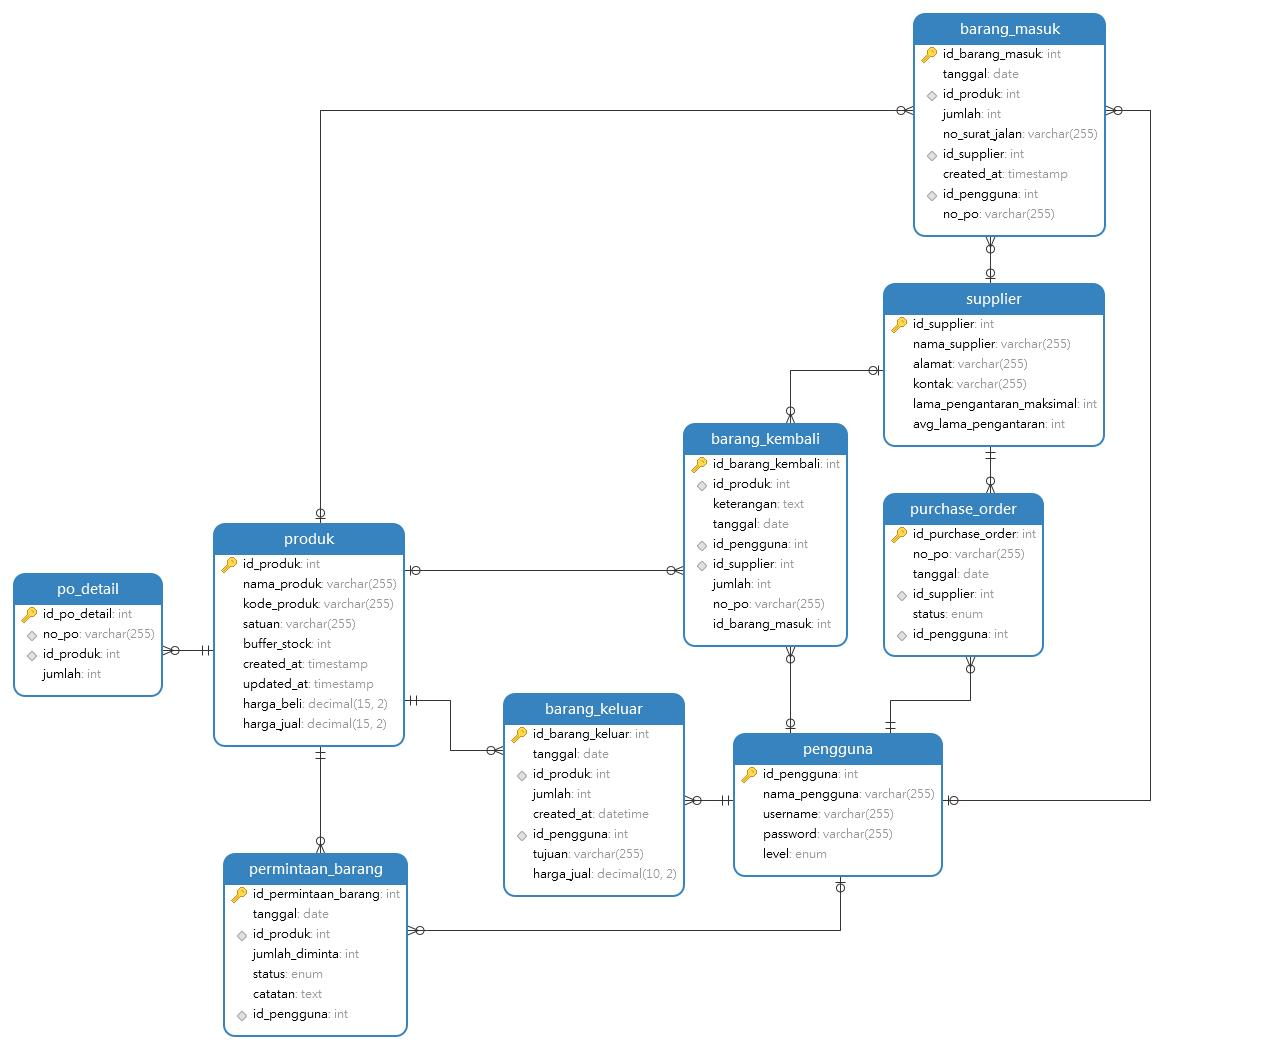
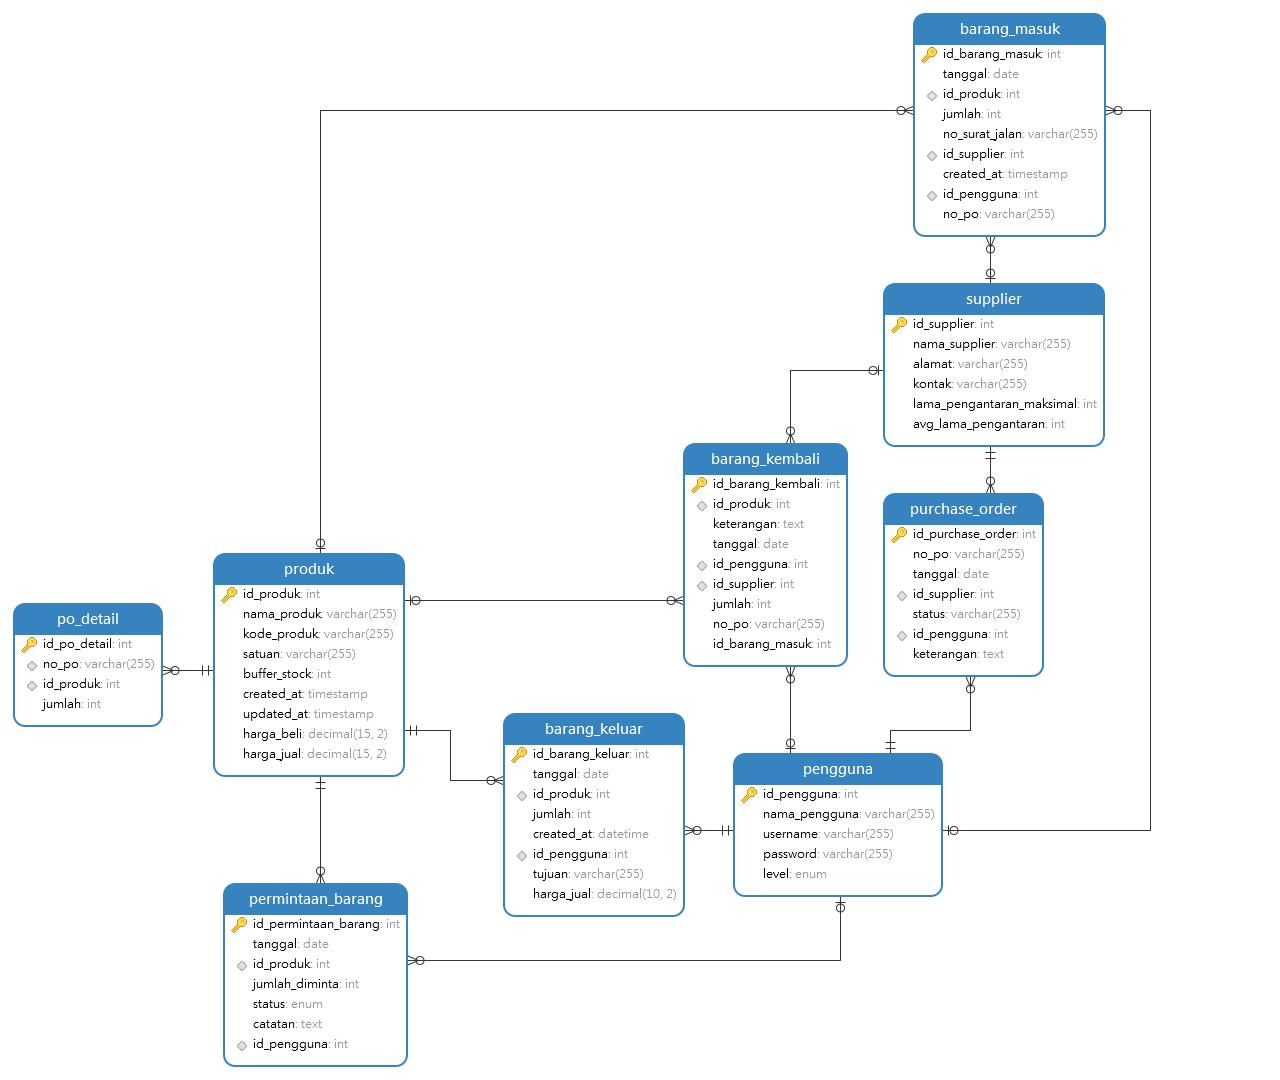
revisi 5

diff --git a/pages/penerimaan-barang-detail/tabel-penerimaan-barang.php b/pages/penerimaan-barang-detail/tabel-penerimaan-barang.php
@@ -5,8 +5,10 @@ $resultpo = $link->query($sqlpo);
 $rowpo = $resultpo->fetch_assoc();
 session_start();
 ?>
-<form action="pages/penerimaan-barang-detail/proses-penerimaan-barang.php" method="post" enctype="multipart/form-data">
+<form id="penerimaan-form" action="pages/penerimaan-barang-detail/proses-penerimaan-barang.php" method="post"
+    enctype="multipart/form-data">
     <input type="hidden" name="id_pengguna" value="<?= $_SESSION['id_pengguna'] ?>">
+    <input type="hidden" name="create_backorder" id="create_backorder" value="0">
     <div class="row">
         <p>Kode PO : <b><?= $rowpo['no_po'] ?></b></p>
         <input name="no_po" type="hidden" value="<?= $rowpo['no_po'] ?>">
@@ -15,6 +17,7 @@ session_start();
         <p>Tanggal Pesan : <b><?= $rowpo['tanggal'] ?></b></p>
         <p>Tanggal Penerimaan : <input class="" type="date" name="tanggal_penerimaan" required></p>
         <p>No Surat Jalan : <input type="text" name="no_surat_jalan" required></p>
+        <p>Keterangan : <input class="" type="text" name="keterangan" value="<?= $rowpo['keterangan'] ?>"></p>
     </div>
 
     <table id="table-data" class="table table-bordered table-striped">
@@ -77,15 +80,8 @@ session_start();
                 }
             }
             if (invalid) {
-                $('#btn-simpan').prop('disabled', true);
-                if (!hasInvalid) {
-                    if (window.alertify && typeof alertify.error === 'function') {
-                        alertify.error('Jumlah diterima tidak boleh kurang dari jumlah dipesan');
-                    } else {
-                        alert('Jumlah diterima tidak boleh kurang dari jumlah dipesan');
-                    }
-                    hasInvalid = true;
-                }
+                $('#btn-simpan').prop('disabled', false); // allow submit, but will confirm on submit
+                hasInvalid = true;
             } else {
                 $('#btn-simpan').prop('disabled', false);
                 hasInvalid = false;
@@ -96,6 +92,49 @@ session_start();
 
         $(document).on('keyup change', '.jumlah_diterima', function () {
             validateRows();
+        });
+
+        // Intercept form submit to handle partial receipts
+        $('#penerimaan-form').on('submit', function (e) {
+            // check if any received < ordered
+            const jumlahEls = $('.jumlah');
+            const diterimaEls = $('.jumlah_diterima');
+            let hasShortfall = false;
+            for (let i = 0; i < jumlahEls.length; i++) {
+                const jumlah = parseFloat($(jumlahEls[i]).val()) || 0;
+                const diterima = parseFloat($(diterimaEls[i]).val());
+                if (isNaN(diterima)) {
+                    alert('Jumlah diterima harus diisi dengan angka');
+                    e.preventDefault();
+                    return false;
+                }
+                if (diterima < jumlah) {
+                    hasShortfall = true;
+                    break;
+                }
+            }
+
+            if (hasShortfall) {
+                e.preventDefault();
+                const confirmFn = function () {
+                    // set hidden flag and submit
+                    $('#create_backorder').val('1');
+                    $('#penerimaan-form')[0].submit();
+                };
+
+                if (window.alertify && typeof alertify.confirm === 'function') {
+                    alertify.confirm('Konfirmasi', 'Beberapa jumlah diterima kurang dari jumlah dipesan. Buat PO baru untuk kekurangan?', function () {
+                        confirmFn();
+                    }, function () {
+                        // canceled
+                    });
+                } else {
+                    if (confirm('Beberapa jumlah diterima kurang dari jumlah dipesan. Buat PO baru untuk kekurangan?')) {
+                        confirmFn();
+                    }
+                }
+            }
+            // otherwise allow normal submit
         });
 
     });

diff --git a/pages/penerimaan-barang-detail/proses-penerimaan-barang.php b/pages/penerimaan-barang-detail/proses-penerimaan-barang.php
@@ -4,19 +4,74 @@ require_once '../../partials/config.php';
 if ($_SERVER['REQUEST_METHOD'] === 'POST') {
     $no_po = $_POST['no_po'];
     $id_produk = $_POST['idproduk'];
+    $jumlah = isset($_POST['jumlah']) ? $_POST['jumlah'] : [];
     $jumlah_diterima = $_POST['jumlah_diterima'];
     $tanggal_penerimaan = $_POST['tanggal_penerimaan'];
     $no_surat_jalan = $_POST['no_surat_jalan'];
     $id_supplier = $_POST['id_supplier'];
     $id_pengguna = $_POST['id_pengguna'];
+    $create_backorder = isset($_POST['create_backorder']) && $_POST['create_backorder'] == '1';
 
+    $hasShortfall = false;
+
+    // input penerimaan barang
     for ($i = 0; $i < count($id_produk); $i++) {
-        $sql = "INSERT INTO barang_masuk (no_po, id_produk, jumlah, tanggal, no_surat_jalan, id_supplier, id_pengguna) VALUES ('$no_po', '$id_produk[$i]', '$jumlah_diterima[$i]', '$tanggal_penerimaan', '$no_surat_jalan', '$id_supplier', '$id_pengguna')";
-        $link->query($sql);
+        $ordered = isset($jumlah[$i]) ? (float) $jumlah[$i] : 0;
+        $received = isset($jumlah_diterima[$i]) ? (float) $jumlah_diterima[$i] : 0;
+
+        $stmt = $link->prepare("INSERT INTO barang_masuk (no_po, id_produk, jumlah, tanggal, no_surat_jalan, id_supplier, id_pengguna) VALUES (?, ?, ?, ?, ?, ?, ?)");
+        $stmt->bind_param('siissii', $no_po, $id_produk[$i], $received, $tanggal_penerimaan, $no_surat_jalan, $id_supplier, $id_pengguna);
+        $stmt->execute();
+        $stmt->close();
+
+        if ($received < $ordered) {
+            $hasShortfall = true;
+        }
     }
-    // ganti status PO menjadi Diterima
-    $sqlUpdate = "UPDATE purchase_order SET status = 'Diterima' WHERE no_po = '$no_po'";
-    $link->query($sqlUpdate);
+
+    if ($hasShortfall && $create_backorder) {
+        // generate new PO code
+        $query = $link->query("SELECT MAX(no_po) AS no_po FROM purchase_order");
+        $data = $query->fetch_assoc();
+        $lastNum = $data['no_po'] ? preg_replace('/[^0-9]/', '', $data['no_po']) : '0';
+        $next = intval($lastNum) + 1;
+        $new_no_po = 'PO-' . sprintf('%03d', $next);
+
+        $keterangan = 'Backorder dari ' . $no_po . ' - sisa qty';
+        $status = 'Dipesan';
+
+        $stmt = $link->prepare("INSERT INTO purchase_order (id_pengguna, no_po, id_supplier, tanggal, status, keterangan) VALUES (?, ?, ?, ?, ?, ?)");
+        $stmt->bind_param('isisss', $id_pengguna, $new_no_po, $id_supplier, $tanggal_penerimaan, $status, $keterangan);
+        $stmt->execute();
+        $stmt->close();
+
+        // insert remaining quantities into po_detail for the new PO
+        for ($i = 0; $i < count($id_produk); $i++) {
+            $ordered = isset($jumlah[$i]) ? (int) $jumlah[$i] : 0;
+            $received = isset($jumlah_diterima[$i]) ? (int) $jumlah_diterima[$i] : 0;
+            $remaining = $ordered - $received;
+            if ($remaining > 0) {
+                $stmt = $link->prepare("INSERT INTO po_detail (id_produk, jumlah, no_po) VALUES (?, ?, ?)");
+                $stmt->bind_param('iis', $id_produk[$i], $remaining, $new_no_po);
+                $stmt->execute();
+                $stmt->close();
+            }
+        }
+
+        // update original PO status to 'Diterima Sebagian'
+        $stmt = $link->prepare("UPDATE purchase_order SET status = ? WHERE no_po = ?");
+        $partialStatus = 'Diterima Sebagian';
+        $stmt->bind_param('ss', $partialStatus, $no_po);
+        $stmt->execute();
+        $stmt->close();
+    } else {
+        // no shortfall -> fully received
+        $stmt = $link->prepare("UPDATE purchase_order SET status = ? WHERE no_po = ?");
+        $fullStatus = 'Diterima';
+        $stmt->bind_param('ss', $fullStatus, $no_po);
+        $stmt->execute();
+        $stmt->close();
+    }
 
     header("Location: ../../index.php?page=penerimaan-barang");
     exit();

diff --git a/pages/penerimaan-barang/tabel-purchase-order.php b/pages/penerimaan-barang/tabel-purchase-order.php
@@ -26,7 +26,7 @@
                                 <td><?= $data['nama_supplier'] ?></td>
                                 <td><?= $data['status'] ?></td>
                                 <td>
-                                    <?php if ($data['status'] != "Diterima") { ?>
+                                    <?php if ($data['status'] != "Diterima" && $data['status'] != "Diterima Sebagian") { ?>
                                         <form action="" method="get" style="display: inline;">
                                             <input type="hidden" name="page" value="penerimaan-barang-detail">
                                             <input type="hidden" name="kodepo" value="<?= $data['no_po'] ?>">
